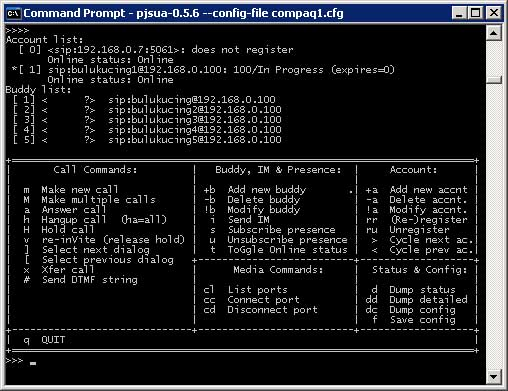
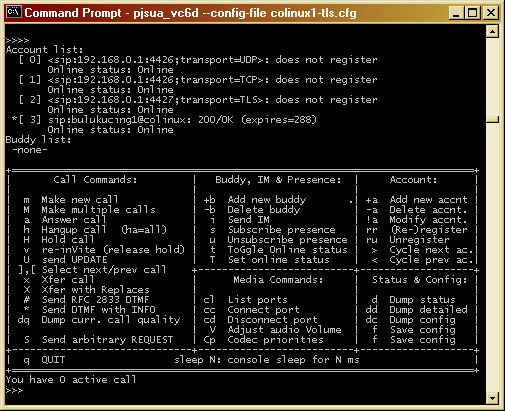
Ticket #391: Added framework to send and receive arbitrary requests within call in PJSUA-LIB, with samples to send/receive DTMF with INFO in pjsua application
git-svn-id: file:///mirror/SvnSyncs/PJ/repos/pjproject/trunk@1477 bdd19603-ad22-4b21-bbe5-5c27d6d023c3

Changed region(s): [[0.0, 0.0, 1.0, 1.0]]

diff --git a/pjsip-apps/src/pjsua/pjsua_app.c b/pjsip-apps/src/pjsua/pjsua_app.c
@@ -1596,6 +1596,72 @@ static void on_incoming_call(pjsua_acc_id acc_id, pjsua_call_id call_id,
 
 
 /*
+ * Handler when a transaction within a call has changed state.
+ */
+static void on_call_tsx_state(pjsua_call_id call_id,
+			      pjsip_transaction *tsx,
+			      pjsip_event *e)
+{
+    const pjsip_method info_method = 
+    {
+	PJSIP_OTHER_METHOD,
+	{ "INFO", 4 }
+    };
+
+    if (pjsip_method_cmp(&tsx->method, &info_method)==0) {
+	/*
+	 * Handle INFO method.
+	 */
+	if (tsx->role == PJSIP_ROLE_UAC && 
+	    (tsx->state == PJSIP_TSX_STATE_COMPLETED ||
+	       tsx->state == PJSIP_TSX_STATE_TERMINATED &&
+	       e->body.tsx_state.prev_state != PJSIP_TSX_STATE_COMPLETED)) 
+	{
+	    /* Status of outgoing INFO request */
+	    if (tsx->status_code >= 200 && tsx->status_code < 300) {
+		PJ_LOG(4,(THIS_FILE, 
+			  "Call %d: DTMF sent successfully with INFO",
+			  call_id));
+	    } else if (tsx->status_code >= 300) {
+		PJ_LOG(4,(THIS_FILE, 
+			  "Call %d: Failed to send DTMF with INFO: %d/%.*s",
+			  call_id,
+		          tsx->status_code,
+			  (int)tsx->status_text.slen,
+			  tsx->status_text.ptr));
+	    }
+	} else if (tsx->role == PJSIP_ROLE_UAS &&
+		   tsx->state == PJSIP_TSX_STATE_TRYING)
+	{
+	    /* Answer incoming INFO with 200/OK */
+	    pjsip_rx_data *rdata;
+	    pjsip_tx_data *tdata;
+	    pj_status_t status;
+
+	    rdata = e->body.tsx_state.src.rdata;
+
+	    if (rdata->msg_info.msg->body) {
+		status = pjsip_endpt_create_response(tsx->endpt, rdata,
+						     200, NULL, &tdata);
+		if (status == PJ_SUCCESS)
+		    status = pjsip_tsx_send_msg(tsx, tdata);
+
+		PJ_LOG(3,(THIS_FILE, "Call %d: incoming INFO:\n%.*s", 
+			  call_id,
+			  (int)rdata->msg_info.msg->body->len,
+			  rdata->msg_info.msg->body->data));
+	    } else {
+		status = pjsip_endpt_create_response(tsx->endpt, rdata,
+						     400, NULL, &tdata);
+		if (status == PJ_SUCCESS)
+		    status = pjsip_tsx_send_msg(tsx, tdata);
+	    }
+	}
+    }
+}
+
+
+/*
  * Callback on media state changed event.
  * The action may connect the call to sound device, to file, or
  * to loop the call.
@@ -2862,6 +2928,53 @@ void console_app_main(const pj_str_t *uri_to_call)
 	    }
 	    break;
 
+	case '*':
+	    /* Send DTMF with INFO */
+	    if (current_call == -1) {
+		
+		PJ_LOG(3,(THIS_FILE, "No current call"));
+
+	    } else {
+		const pj_str_t SIP_INFO = pj_str("INFO");
+		pj_str_t digits;
+		int call = current_call;
+		int i;
+		pj_status_t status;
+
+		if (!simple_input("DTMF strings to send (0-9*#A-B)", buf, 
+				  sizeof(buf)))
+		{
+			break;
+		}
+
+		if (call != current_call) {
+		    puts("Call has been disconnected");
+		    continue;
+		}
+
+		digits = pj_str(buf);
+		for (i=0; i<digits.slen; ++i) {
+		    pjsua_msg_data msg_data;
+		    char body[80];
+
+		    pjsua_msg_data_init(&msg_data);
+		    msg_data.content_type = pj_str("application/dtmf-relay");
+		    
+		    pj_ansi_snprintf(body, sizeof(body),
+				     "Signal=%c\r\n"
+				     "Duration=160",
+				     buf[i]);
+		    msg_data.msg_body = pj_str(body);
+
+		    status = pjsua_call_send_request(current_call, &SIP_INFO, 
+						     &msg_data);
+		    if (status != PJ_SUCCESS) {
+			break;
+		    }
+		}
+	    }
+	    break;
+
 	case 'S':
 	    /*
 	     * Send arbitrary request
@@ -3150,6 +3263,7 @@ pj_status_t app_init(int argc, char *argv[])
     app_config.cfg.cb.on_call_state = &on_call_state;
     app_config.cfg.cb.on_call_media_state = &on_call_media_state;
     app_config.cfg.cb.on_incoming_call = &on_incoming_call;
+    app_config.cfg.cb.on_call_tsx_state = &on_call_tsx_state;
     app_config.cfg.cb.on_dtmf_digit = &call_on_dtmf_callback;
     app_config.cfg.cb.on_reg_state = &on_reg_state;
     app_config.cfg.cb.on_buddy_state = &on_buddy_state;

diff --git a/pjsip/include/pjsua-lib/pjsua.h b/pjsip/include/pjsua-lib/pjsua.h
@@ -545,6 +545,21 @@ typedef struct pjsua_callback
 			     pjsip_rx_data *rdata);
 
     /**
+     * This is a general notification callback which is called whenever
+     * a transaction within the call has changed state. Application can
+     * implement this callback for example to monitor the state of 
+     * outgoing requests, or to answer unhandled incoming requests 
+     * (such as INFO) with a final response.
+     *
+     * @param call_id	Call identification.
+     * @param tsx	The transaction which has changed state.
+     * @param e		Transaction event that caused the state change.
+     */
+    void (*on_call_tsx_state)(pjsua_call_id call_id, 
+			      pjsip_transaction *tsx,
+			      pjsip_event *e);
+
+    /**
      * Notify application when media state in the call has changed.
      * Normal application would need to implement this callback, e.g.
      * to connect the call's media to sound device.
@@ -2905,6 +2920,24 @@ PJ_DECL(pj_status_t) pjsua_call_send_im( pjsua_call_id call_id,
 PJ_DECL(pj_status_t) pjsua_call_send_typing_ind(pjsua_call_id call_id, 
 						pj_bool_t is_typing,
 						const pjsua_msg_data*msg_data);
+
+/**
+ * Send arbitrary request with the call. This is useful for example to send
+ * INFO request. Note that application should not use this function to send
+ * requests which would change the invite session's state, such as re-INVITE,
+ * UPDATE, PRACK, and BYE.
+ *
+ * @param call_id	Call identification.
+ * @param method	SIP method of the request.
+ * @param msg_data	Optional message body and/or list of headers to be 
+ *			included in outgoing request.
+ *
+ * @return		PJ_SUCCESS on success, or the appropriate error code.
+ */
+PJ_DECL(pj_status_t) pjsua_call_send_request(pjsua_call_id call_id,
+					     const pj_str_t *method,
+					     const pjsua_msg_data *msg_data);
+
 
 /**
  * Terminate all calls. This will initiate #pjsua_call_hangup() for all

diff --git a/pjsip/src/pjsua-lib/pjsua_call.c b/pjsip/src/pjsua-lib/pjsua_call.c
@@ -1662,6 +1662,52 @@ on_return:
 
 
 /*
+ * Send arbitrary request.
+ */
+PJ_DEF(pj_status_t) pjsua_call_send_request(pjsua_call_id call_id,
+					    const pj_str_t *method_str,
+					    const pjsua_msg_data *msg_data)
+{
+    pjsua_call *call;
+    pjsip_dialog *dlg;
+    pjsip_method method;
+    pjsip_tx_data *tdata;
+    pj_status_t status;
+
+    PJ_ASSERT_RETURN(call_id>=0 && call_id<(int)pjsua_var.ua_cfg.max_calls,
+		     PJ_EINVAL);
+
+    status = acquire_call("pjsua_call_send_request", call_id, &call, &dlg);
+    if (status != PJ_SUCCESS)
+	return status;
+
+    /* Init method */
+    pjsip_method_init_np(&method, (pj_str_t*)method_str);
+
+    /* Create request message. */
+    status = pjsip_dlg_create_request( call->inv->dlg, &method, -1, &tdata);
+    if (status != PJ_SUCCESS) {
+	pjsua_perror(THIS_FILE, "Unable to create request", status);
+	goto on_return;
+    }
+
+    /* Add additional headers etc */
+    pjsua_process_msg_data( tdata, msg_data);
+
+    /* Send the request. */
+    status = pjsip_dlg_send_request( call->inv->dlg, tdata, -1, NULL);
+    if (status != PJ_SUCCESS) {
+	pjsua_perror(THIS_FILE, "Unable to send request", status);
+	goto on_return;
+    }
+
+on_return:
+    pjsip_dlg_dec_lock(dlg);
+    return status;
+}
+
+
+/*
  * Terminate all calls.
  */
 PJ_DEF(void) pjsua_call_hangup_all(void)
@@ -2844,6 +2890,11 @@ static void pjsua_call_on_tsx_state_changed(pjsip_inv_session *inv,
     pjsua_call *call = (pjsua_call*) inv->dlg->mod_data[pjsua_var.mod.id];
 
     PJSUA_LOCK();
+
+    /* Notify application callback first */
+    if (pjsua_var.ua_cfg.cb.on_call_tsx_state) {
+	(*pjsua_var.ua_cfg.cb.on_call_tsx_state)(call->index, tsx, e);
+    }
 
     if (tsx->role==PJSIP_ROLE_UAS &&
 	tsx->state==PJSIP_TSX_STATE_TRYING &&

diff --git a/pjsip/include/pjsip-ua/sip_inv.h b/pjsip/include/pjsip-ua/sip_inv.h
@@ -133,7 +133,8 @@ typedef struct pjsip_inv_callback
     /**
      * This callback is called whenever any transactions within the session
      * has changed their state. Application MAY implement this callback, 
-     * e.g. to monitor the progress of an outgoing request.
+     * e.g. to monitor the progress of an outgoing request, or to send
+     * response to unhandled incoming request (such as INFO).
      *
      * This callback is optional.
      *
